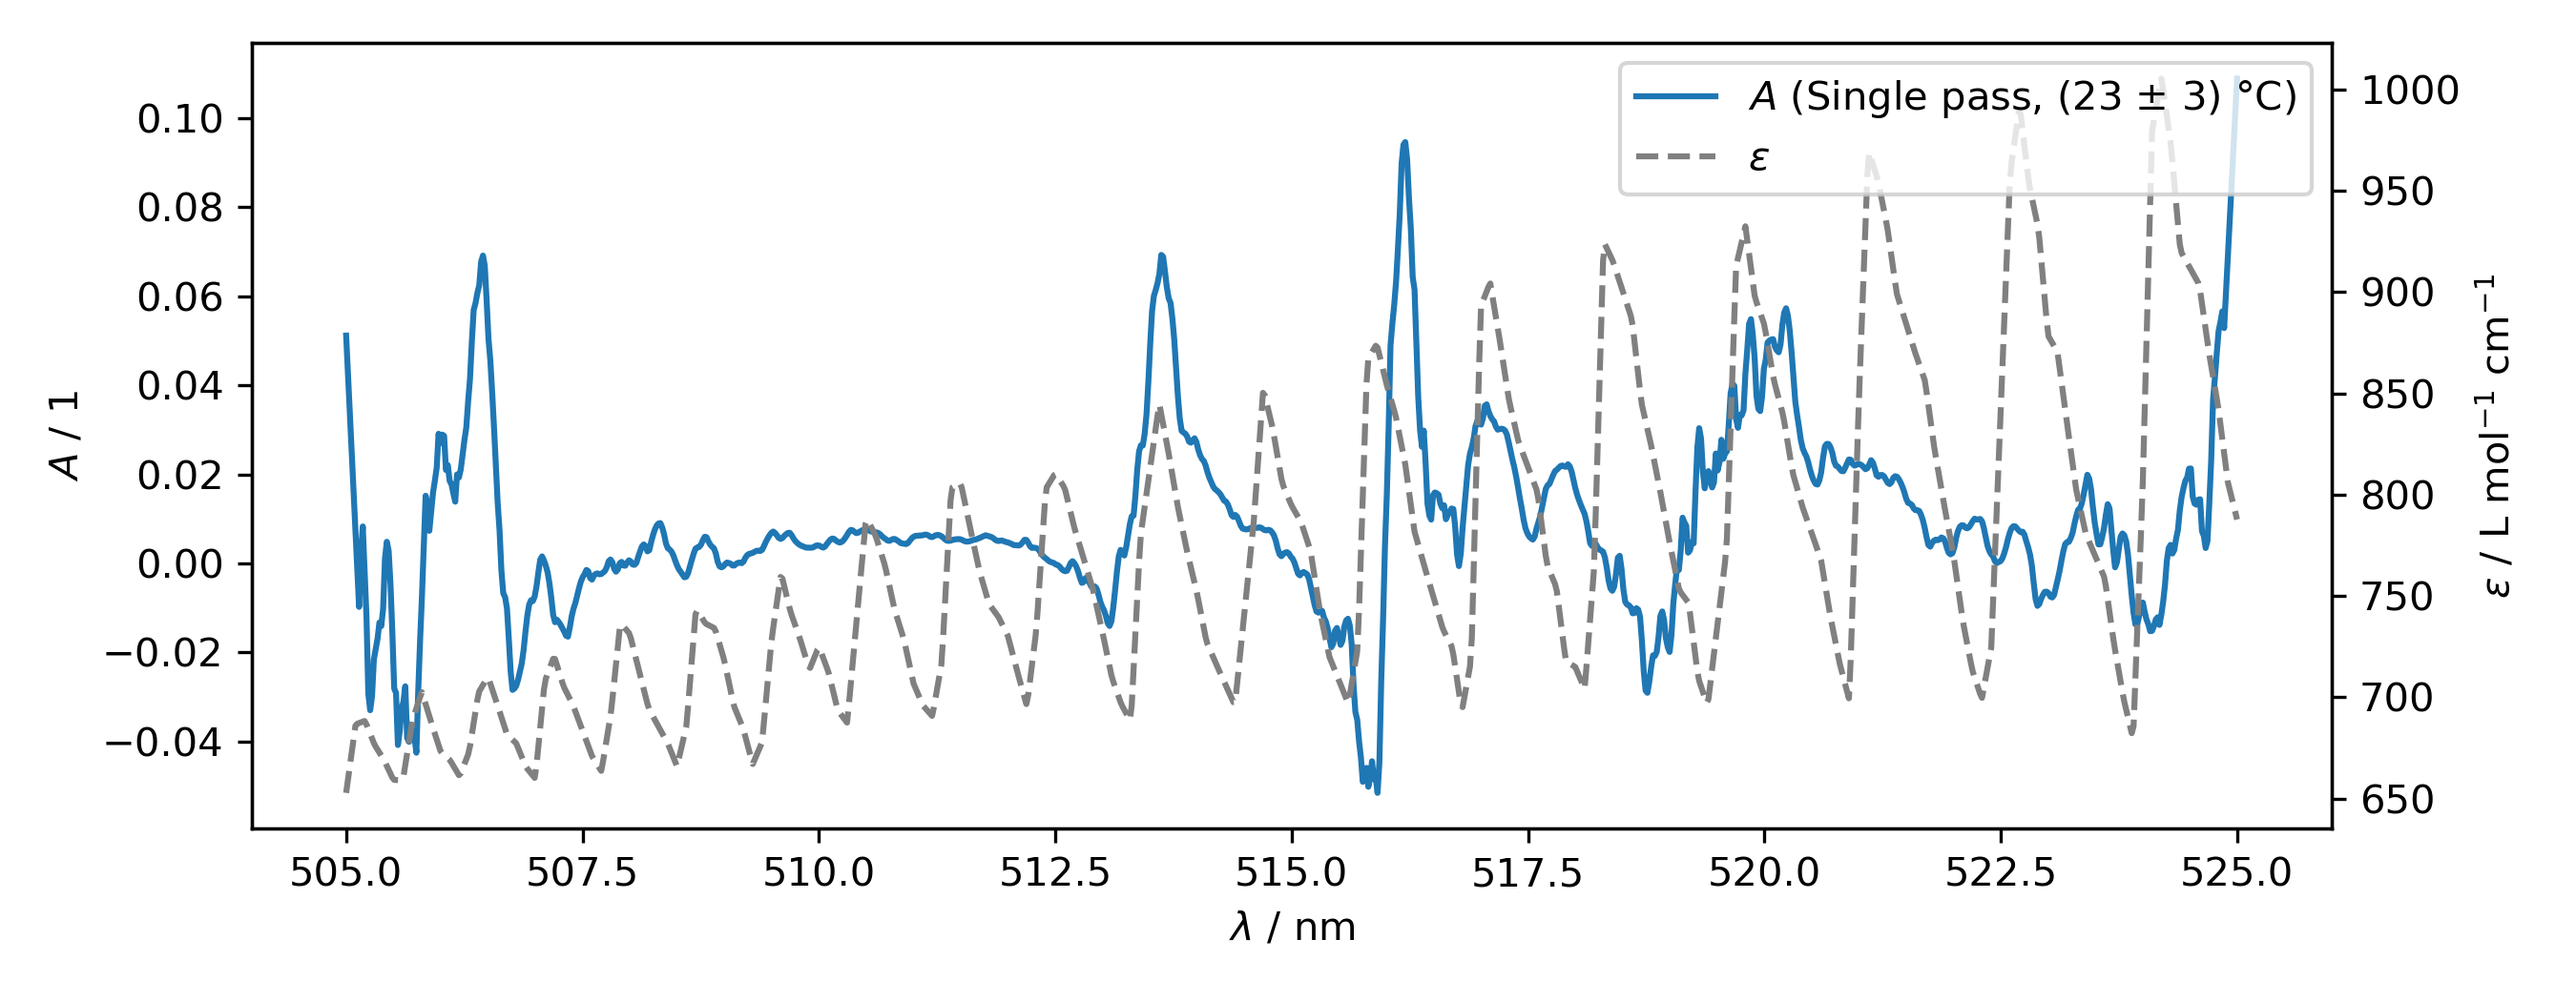
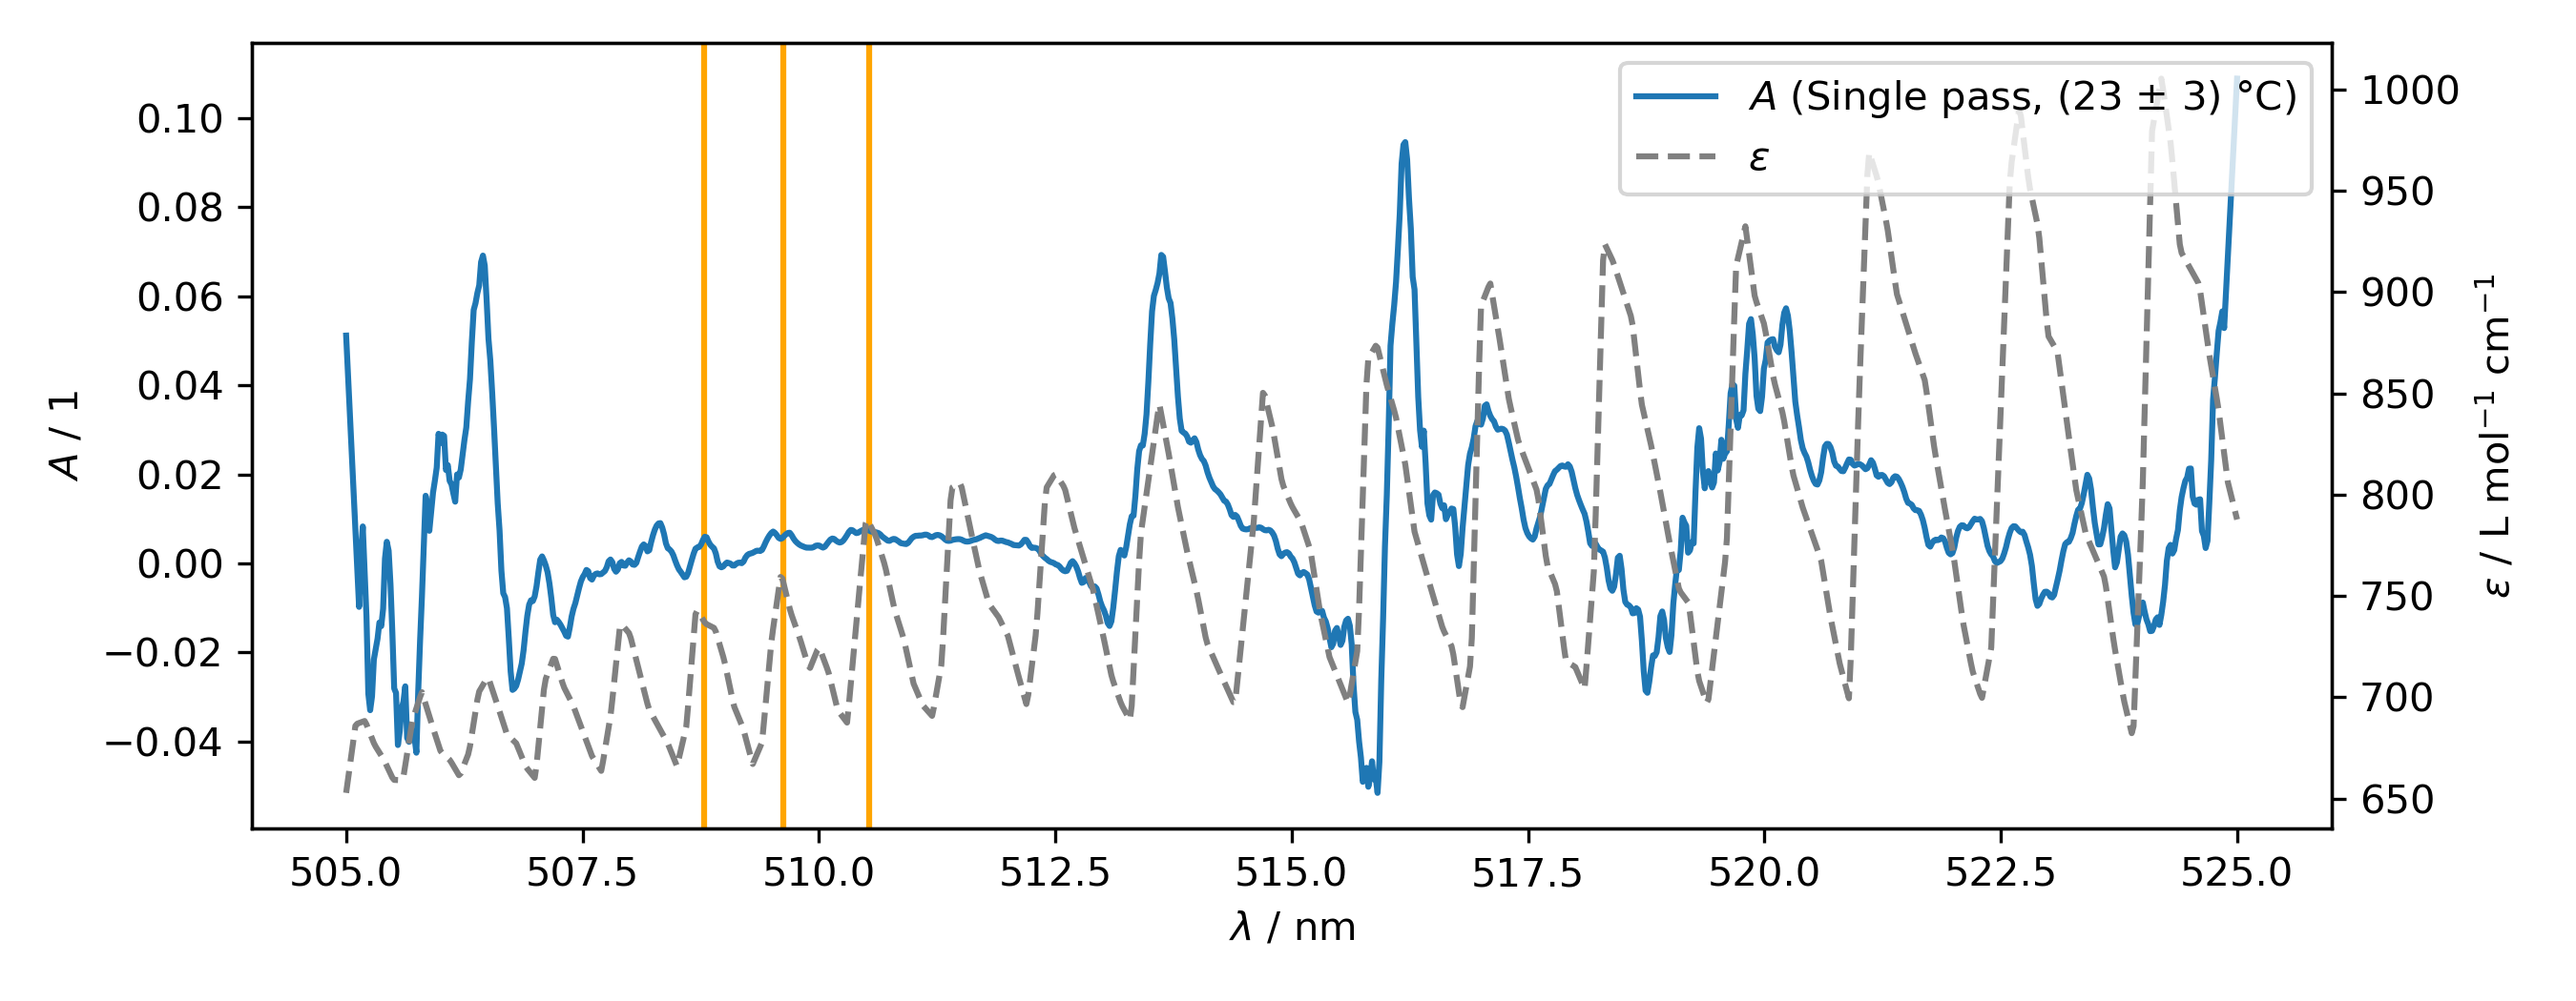
Fix some shit

diff --git a/Python/modules/absorbance.py b/Python/modules/absorbance.py
@@ -75,6 +75,8 @@ epsilon = N_A * literature["sigma"] / np.log(10) / 1e3 # L / mol / cm
 
 for title, _, image, _, _, data in iodine:
     plt.figure(figsize=(9, 3.5))
+    for l in [508.79, 509.62, 510.53]:
+        plt.axvline(l, color="orange", label="Peak match")
     absorbance = -np.log10(data["I"]/reference[-1]["I"])
     absorbance = sig.savgol_filter(absorbance, 15, 1)
     l1 = plt.plot(data["lambda"], absorbance, label=r"$A$" + f" ({title})")
@@ -88,6 +90,7 @@ for title, _, image, _, _, data in iodine:
     twin1.set_ylabel(r"$\epsilon$ / L mol$^{-1}$ cm$^{-1}$")
     plt.tight_layout()
     plt.savefig(image, dpi=300)
+
 low = 508
 up = 511
 

diff --git a/Latex/Absorption_Spectroscopy/chapters/7_auswertung.tex b/Latex/Absorption_Spectroscopy/chapters/7_auswertung.tex
@@ -57,7 +57,7 @@ Using Equation \ref{eq:fundamentals:absorbance}, the absorbance $A$ can be calcu
     \label{fig:evaluation:absorbance:triple}
 \end{figure}
 
-\subsection{Iodine Absorbance}
+\subsection{Iodine Concentration}
 \label{sec:evaluation:iodine-concentration}
 
 Using Equation \ref{eq:fundamentals:beer} as well as the absorbance $A$ and molar absorption coefficient $\varepsilon$ obtained in Section \ref{sec:evaluation:iodine-absorbance}, the concentration $c$ of molecular iodine in the cell can be calculated.
